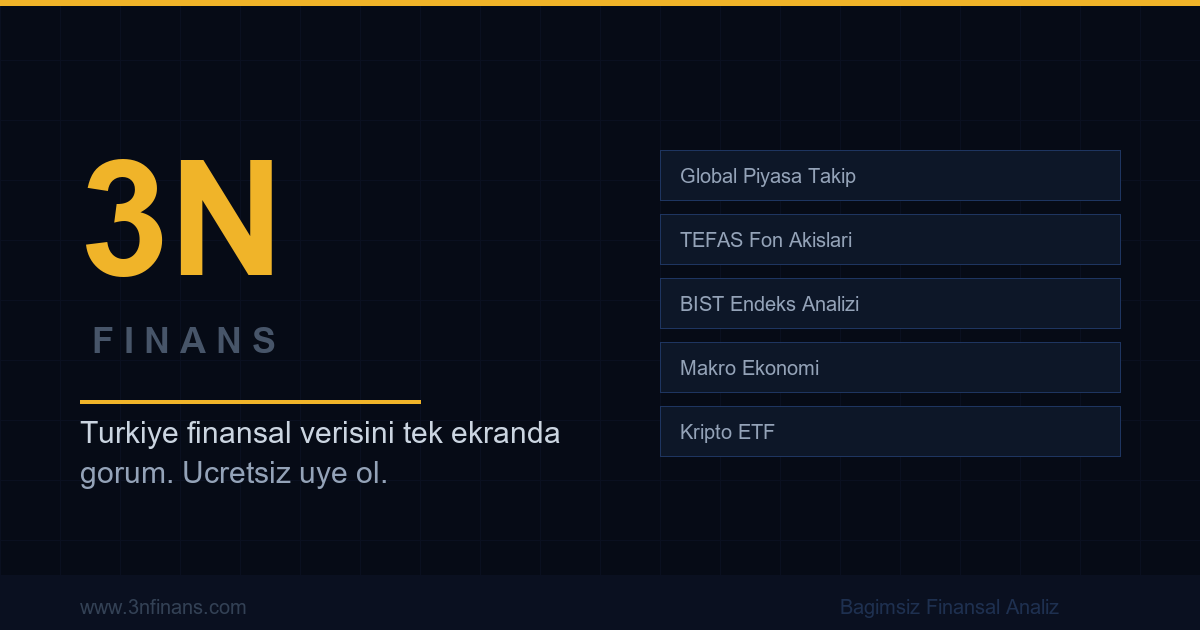
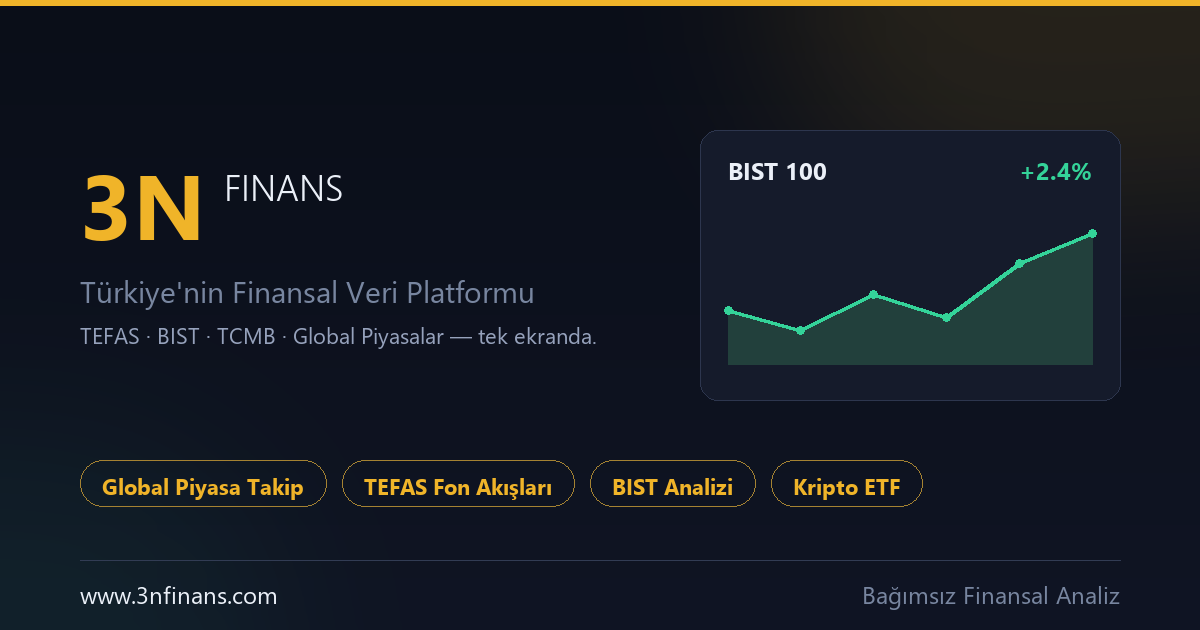
feat: yeni sade ve modern Twitter/OG paylasim karti

diff --git a/scripts/gen_og_image.py b/scripts/gen_og_image.py
@@ -1,0 +1,108 @@
+"""3N Finans için Twitter/OG paylaşım kartı üretir (1200x630)."""
+from PIL import Image, ImageDraw, ImageFont, ImageFilter
+
+W, H = 1200, 630
+BG_TOP = (10, 14, 24)
+BG_BOTTOM = (16, 21, 36)
+GOLD = (240, 180, 41)
+GOLD_DIM = (165, 130, 50)
+WHITE = (235, 240, 248)
+MUTED = (120, 134, 160)
+GREEN = (52, 211, 153)
+GREEN_FILL = (34, 64, 60)
+CARD_BG = (21, 27, 43)
+CARD_BORDER = (45, 54, 78)
+
+FONT_DIR = "C:/Windows/Fonts"
+
+def font(path, size):
+    return ImageFont.truetype(f"{FONT_DIR}/{path}", size)
+
+f_logo = font("segoeuib.ttf", 92)
+f_sub  = font("segoeuisl.ttf", 36)
+f_tag  = font("segoeui.ttf", 30)
+f_url  = font("segoeui.ttf", 24)
+f_pill = font("segoeuib.ttf", 22)
+f_card = font("segoeuib.ttf", 24)
+f_small = font("segoeui.ttf", 22)
+
+# ── Background gradient ──
+img = Image.new("RGB", (W, H), BG_TOP)
+draw = ImageDraw.Draw(img)
+for y in range(H):
+    t = y / H
+    r = int(BG_TOP[0] + (BG_BOTTOM[0] - BG_TOP[0]) * t)
+    g = int(BG_TOP[1] + (BG_BOTTOM[1] - BG_TOP[1]) * t)
+    b = int(BG_TOP[2] + (BG_BOTTOM[2] - BG_TOP[2]) * t)
+    draw.line([(0, y), (W, y)], fill=(r, g, b))
+
+img = img.convert("RGBA")
+
+# Soft glow accents (blurred overlay, alpha-composited once)
+glow = Image.new("RGBA", (W, H), (0, 0, 0, 0))
+gdraw = ImageDraw.Draw(glow)
+gdraw.ellipse([W - 480, -240, W + 160, 280], fill=(240, 180, 41, 30))
+gdraw.ellipse([-220, H - 260, 340, H + 240], fill=(52, 211, 153, 16))
+glow = glow.filter(ImageFilter.GaussianBlur(100))
+img = Image.alpha_composite(img, glow)
+
+img = img.convert("RGB")
+draw = ImageDraw.Draw(img)
+
+# Top accent line
+draw.rectangle([0, 0, W, 5], fill=GOLD)
+
+# ── Left: wordmark ──
+logo_x, logo_y = 80, 140
+draw.text((logo_x, logo_y), "3N", font=f_logo, fill=GOLD)
+bbox = draw.textbbox((logo_x, logo_y), "3N", font=f_logo)
+draw.text((bbox[2] + 18, logo_y + 22), "FINANS", font=f_sub, fill=WHITE)
+
+draw.text((logo_x, logo_y + 130), "Türkiye'nin Finansal Veri Platformu", font=f_tag, fill=MUTED)
+draw.text((logo_x, logo_y + 180), "TEFAS · BIST · TCMB · Global Piyasalar — tek ekranda.",
+          font=f_small, fill=(150, 162, 188))
+
+# ── Right: chart card ──
+card_x0, card_y0, card_x1, card_y1 = 700, 130, 1120, 400
+draw.rounded_rectangle([card_x0, card_y0, card_x1, card_y1], radius=18,
+                        fill=CARD_BG, outline=CARD_BORDER, width=1)
+
+draw.text((card_x0 + 28, card_y0 + 24), "BIST 100", font=f_card, fill=WHITE)
+draw.text((card_x1 - 28 - draw.textlength("+2.4%", font=f_card), card_y0 + 24),
+          "+2.4%", font=f_card, fill=GREEN)
+
+# chart line (upward trend) with filled area
+chart_left, chart_right = card_x0 + 28, card_x1 - 28
+chart_bottom, chart_top = card_y1 - 36, card_y0 + 80
+xs = [chart_left + i * (chart_right - chart_left) / 5 for i in range(6)]
+ys_ratio = [0.65, 0.78, 0.55, 0.7, 0.35, 0.15]
+points = [(xs[i], chart_top + ys_ratio[i] * (chart_bottom - chart_top)) for i in range(6)]
+
+fill_poly = points + [(points[-1][0], chart_bottom), (points[0][0], chart_bottom)]
+draw.polygon(fill_poly, fill=GREEN_FILL)
+draw.line(points, fill=GREEN, width=4, joint="curve")
+for p in points:
+    draw.ellipse([p[0]-4, p[1]-4, p[0]+4, p[1]+4], fill=GREEN)
+
+# ── Bottom: feature pills ──
+pills = ["Global Piyasa Takip", "TEFAS Fon Akışları", "BIST Analizi", "Kripto ETF"]
+px, py = 80, 460
+for label in pills:
+    tw = draw.textlength(label, font=f_pill)
+    pad_x = 22
+    w = tw + pad_x * 2
+    h = 46
+    draw.rounded_rectangle([px, py, px + w, py + h], radius=23,
+                            outline=GOLD_DIM, width=1)
+    draw.text((px + pad_x, py + 11), label, font=f_pill, fill=GOLD)
+    px += w + 16
+
+# ── Footer ──
+draw.line([(80, H - 70), (W - 80, H - 70)], fill=(50, 60, 84), width=1)
+draw.text((80, H - 52), "www.3nfinans.com", font=f_url, fill=WHITE)
+footer_right = "Bağımsız Finansal Analiz"
+tw = draw.textlength(footer_right, font=f_url)
+draw.text((W - 80 - tw, H - 52), footer_right, font=f_url, fill=MUTED)
+
+img.save("static/og-image.png", "PNG")
+print("ok")